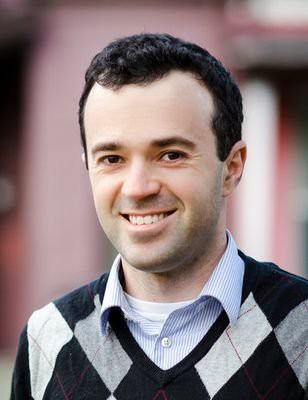
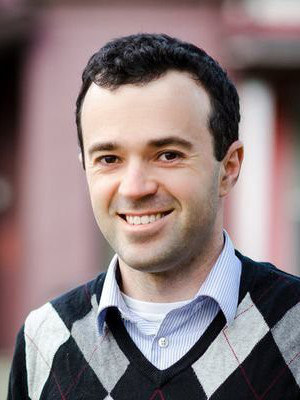
All the headshots

diff --git a/themes/mlconf/layouts/index.html b/themes/mlconf/layouts/index.html
@@ -115,11 +115,17 @@
         </div>
         <div class="row">
             {{ range .Site.Data.speakers }}
-            <div class="col-lg-4">
-              <img src="{{ .image }}" class="headshot" alt="Headshot of {{.name}}" />
-                <h3 class="mb-3">{{ .name }}</h3>
+            <div class="col-lg-4 col-md-4 col-sm-6 col-6">
+              <img src="{{ .image }}" class="headshot img-fluid" style="width:100%" alt="Headshot of {{.name}}" />
+                <h3 class="mb-0">{{ .name }}</h3>
+                <p class="text-muted">{{ .org }}
             </div>
             {{ end }}
+        </div>
+        <div class="row">
+          <div class="col-12 text-center">
+            <a class="btn btn-primary btn-xl mt-5 mx-auto" href="#past">Past Speakers</a>
+          </div>
         </div>
       </div>
     </section>
@@ -225,7 +231,7 @@
         </div>
         <div class="row">
           {{ range .Site.Data.pastspeakers }}
-          <div class="col-lg-2 col-md-3 col-sm-4 col-4">
+          <div class="col-lg-2 col-md-3 col-sm-4 col-6">
             <h4>{{.name}}</h4>
             <p class="small mb-0">{{.title}}</p>
             <p class="small text-muted mb-0"><em>{{.org}}</em></p>

diff --git a/content/_index.md b/content/_index.md
@@ -3,14 +3,14 @@ title: "ML Ensemble #3. June 2 2018"
 date: 2018-03-12T18:16:16-04:00
 
 mastheadFirst: >
-    ML Ensemble #3. <br/>
-    June 2nd 2018. Toronto
+    ML Ensemble #3 <br/>
+    June 2nd 2018 Toronto
 
 mastheadSecond: "Share insights, techniques, methods, and observations with your technical peers"
 
 introHead: "ML Ensemble concept"
 intro: >
-    A one day meeting for machine learning researchers and
+    A one day invitation-only meeting for machine learning researchers and
     practitioners to learn from each other, sharing not just polished high-level
     demos, but also the gritty realities: technique details, systems used, failed
     approaches, and unanswered questions.
